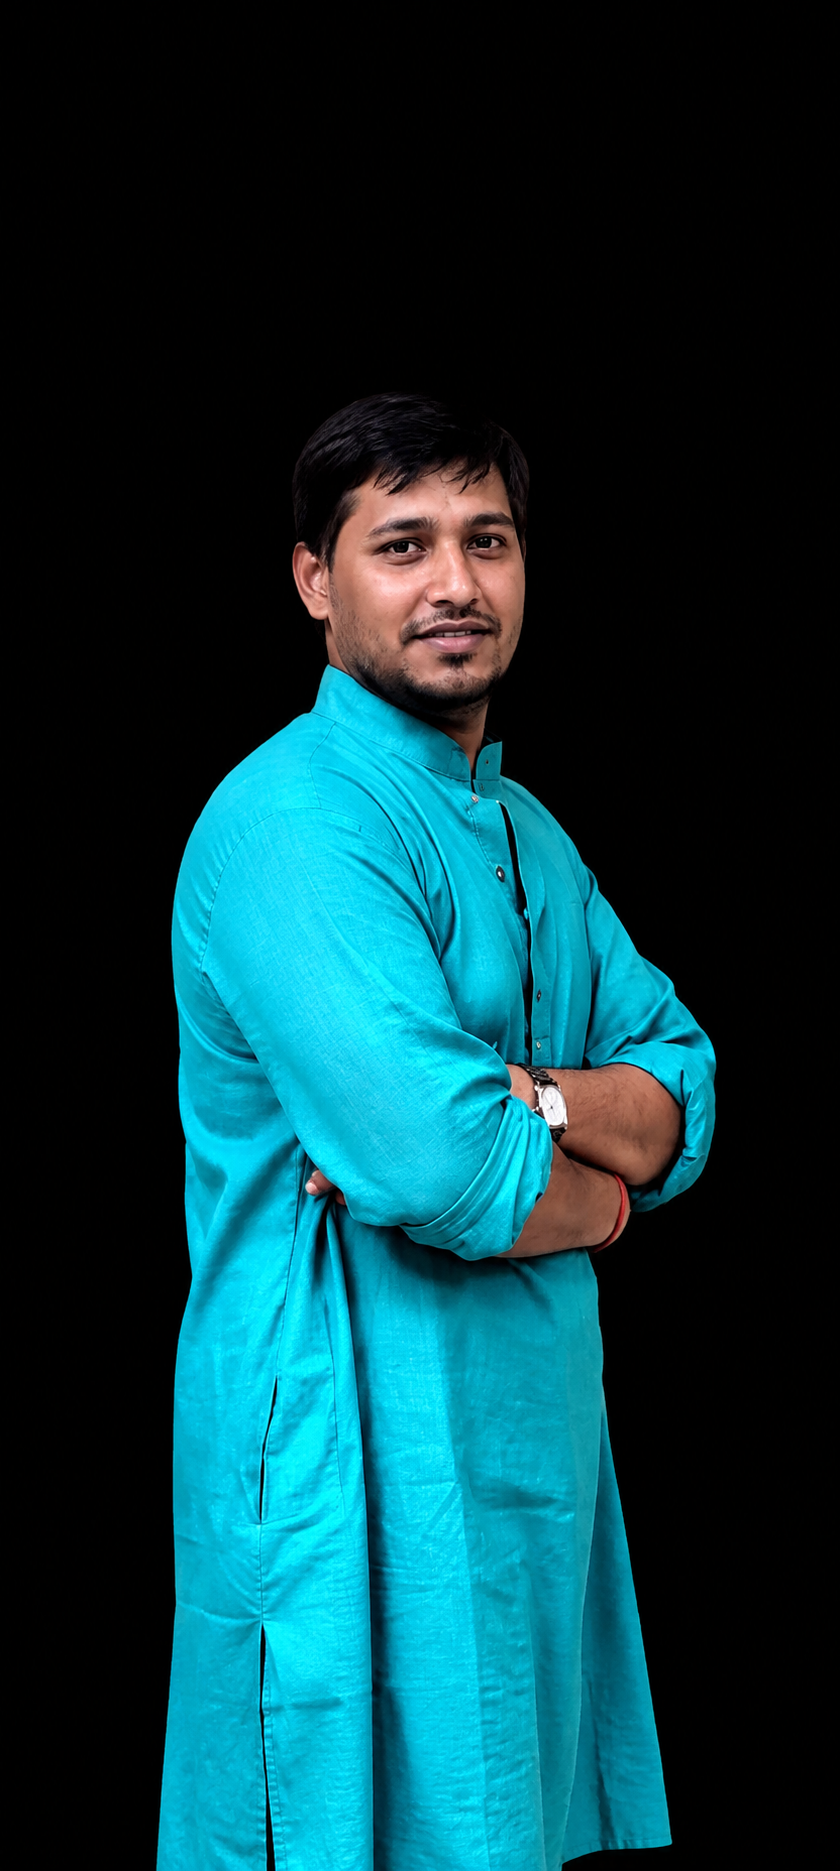
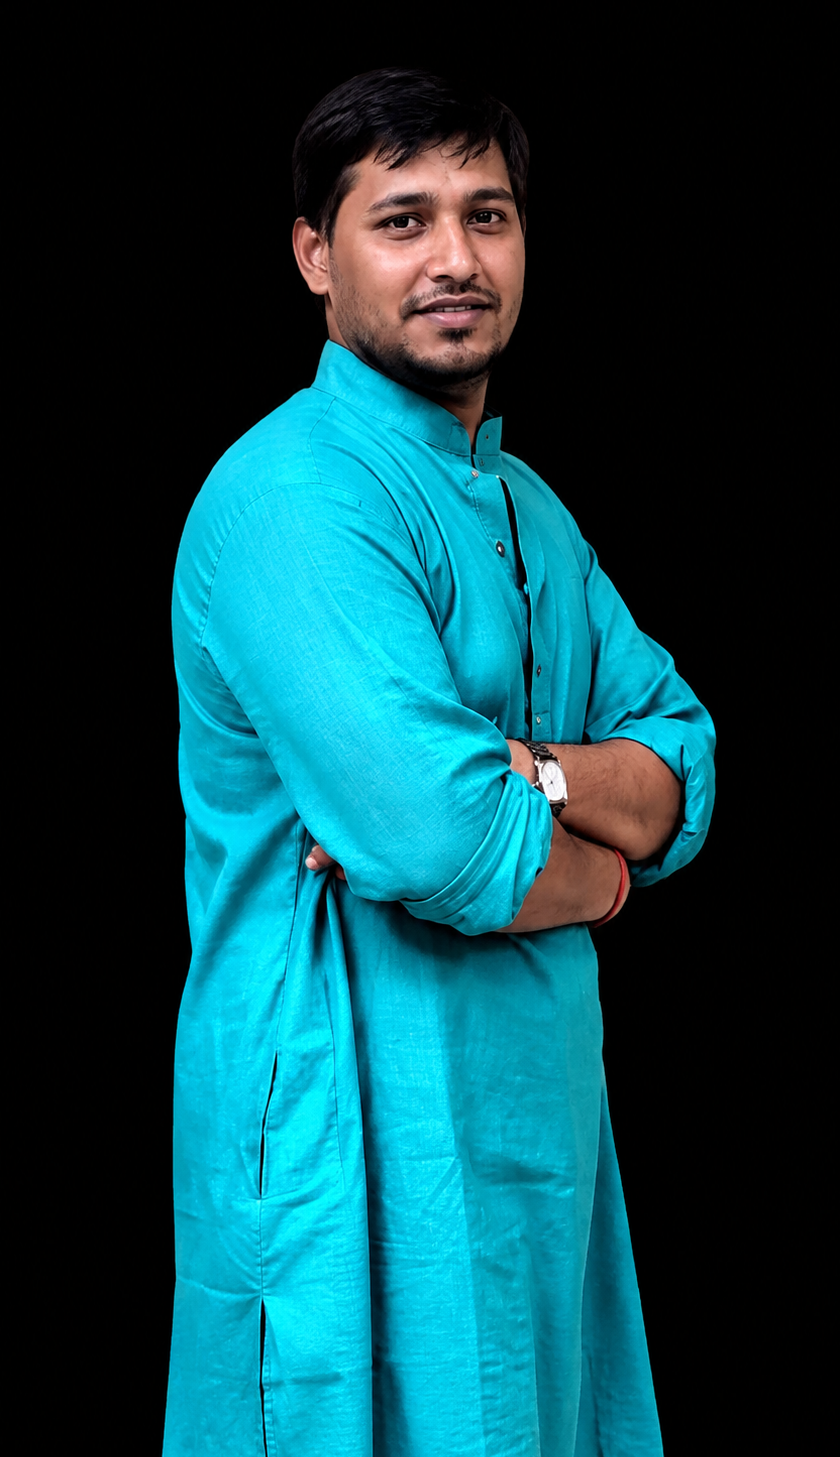
Refine Kolkata portrait placement in placeholder

Changed region(s): [[0.1857, 0.0309, 0.8667, 1.0], [0.1857, 0.8648, 0.2167, 1.0], [0.7119, 0.7412, 0.7429, 0.7721]]

diff --git a/src/App.css b/src/App.css
@@ -12,7 +12,7 @@
 .services-grid-complete { grid-template-columns: repeat(3, 1fr); }.services-grid-complete .service-card { cursor: pointer; }
 .why-choose-section { display: block; border-top: 1px solid var(--border); background: #000; }.why-choose-heading { text-align: center; margin-bottom: 32px; }.why-choose-heading h2 { color: var(--white); font: 400 clamp(38px, 4.2vw, 80px)/0.95 'Playfair Display', serif; margin: 0; text-transform: none; letter-spacing: -2px; }.why-choose-heading h2 em { color: var(--gold); }.why-choose-grid { display: grid; grid-template-columns: repeat(4, minmax(0, 1fr)); border-top: 1px solid rgba(192,163,119,.25); border-left: 1px solid rgba(192,163,119,.25); width: 100%; }.why-choose-grid article { min-height: 190px; padding: 25px 24px; border-right: 1px solid rgba(192,163,119,.25); border-bottom: 1px solid rgba(192,163,119,.25); display: flex; flex-direction: column; justify-content: flex-start; }.why-choose-grid article > span { color: var(--amber); font-size: 10px; letter-spacing: 1px; }.why-choose-grid h3 { color: var(--gold); font: 400 19px 'Playfair Display', serif; margin: 24px 0 11px; }.why-choose-grid p { max-width: 100%; color: var(--beige); font-size: 15px; line-height: 1.7; margin: 0; }
 .local-seo-section { border-top: 1px solid var(--border); background: linear-gradient(110deg, #000, #140a04); }.local-seo-heading { max-width: 730px; }.local-seo-heading h2 { color: var(--white); font: 400 clamp(38px, 4.5vw, 68px)/1.04 'Playfair Display', serif; margin: 0; }.local-seo-heading h2 em { color: var(--gold); }.local-seo-main { display: grid; grid-template-columns: minmax(240px, 360px) minmax(0, 1fr); align-items: center; gap: clamp(38px, 7vw, 100px); margin-top: 58px; }.local-seo-image { width: 100%; aspect-ratio: 4 / 5; display: grid; place-items: center; position: relative; overflow: hidden; border: 1px solid rgba(210,127,20,.65); background: #000; box-shadow: 0 0 45px rgba(210,127,20,.14); }
-.local-seo-image img { width: 100%; height: 100%; object-fit: contain; object-position: center; display: block; background: #000; }.local-seo-image span { position: relative; z-index: 1; color: var(--gold); text-align: center; text-transform: uppercase; letter-spacing: 2px; font-size: 10px; line-height: 1.8; padding: 18px; }.local-seo-image b { color: var(--beige); font-weight: 400; font-size: 8px; }.local-seo-image strong { color: var(--gold); font-weight: 500; font-size: 9px; letter-spacing: 1px; }.local-seo-content { max-width: 640px; margin: 0; color: var(--beige); font-size: 14px; line-height: 1.85; }.local-seo-content p + p { margin-top: 20px; }.local-seo-content strong { color: var(--gold); font-weight: 500; }.local-seo-faq { display: grid; grid-template-columns: 1fr 1fr; gap: 28px; margin-top: 80px; padding-top: 28px; border-top: 1px solid rgba(192,163,119,.25); }.local-seo-faq article { padding-right: 24px; }.local-seo-faq article + article { border-left: 1px solid rgba(192,163,119,.25); padding-left: 28px; }.local-seo-faq h3 { color: var(--gold); font: 400 20px 'Playfair Display', serif; margin: 0 0 14px; }.local-seo-faq p { color: var(--beige); font-size: 12px; line-height: 1.75; margin: 0; }
+.local-seo-image img { width: 100%; height: 100%; object-fit: cover; object-position: center center; display: block; background: #000; }.local-seo-image span { position: relative; z-index: 1; color: var(--gold); text-align: center; text-transform: uppercase; letter-spacing: 2px; font-size: 10px; line-height: 1.8; padding: 18px; }.local-seo-image b { color: var(--beige); font-weight: 400; font-size: 8px; }.local-seo-image strong { color: var(--gold); font-weight: 500; font-size: 9px; letter-spacing: 1px; }.local-seo-content { max-width: 640px; margin: 0; color: var(--beige); font-size: 14px; line-height: 1.85; }.local-seo-content p + p { margin-top: 20px; }.local-seo-content strong { color: var(--gold); font-weight: 500; }.local-seo-faq { display: grid; grid-template-columns: 1fr 1fr; gap: 28px; margin-top: 80px; padding-top: 28px; border-top: 1px solid rgba(192,163,119,.25); }.local-seo-faq article { padding-right: 24px; }.local-seo-faq article + article { border-left: 1px solid rgba(192,163,119,.25); padding-left: 28px; }.local-seo-faq h3 { color: var(--gold); font: 400 20px 'Playfair Display', serif; margin: 0 0 14px; }.local-seo-faq p { color: var(--beige); font-size: 12px; line-height: 1.75; margin: 0; }
 .faq-section { border-top: 1px solid var(--border); background: #000; }.faq-header { text-align: center; margin-bottom: 42px; }.faq-header h2 { color: var(--white); font: 400 clamp(34px, 4vw, 58px)/1.04 'Playfair Display', serif; margin: 0; letter-spacing: -1px; }.faq-grid { display: grid; grid-template-columns: 1fr 1fr; gap: 28px; }.faq-column { display: grid; gap: 20px; }.faq-item { border: 1px solid rgba(192,163,119,.25); background: rgba(20,10,4,.4); overflow: hidden; }.faq-question { width: 100%; padding: 24px 20px; background: transparent; border: 0; color: var(--gold); display: flex; align-items: center; justify-content: space-between; gap: 16px; text-align: left; font: 400 18px/1.3 'Playfair Display', serif; cursor: pointer; }.faq-question span:first-child { flex: 1; }.faq-toggle { font-size: 30px; line-height: 1; color: var(--amber); font-weight: 400; }.faq-answer { padding: 0 20px 22px; border-top: 1px solid rgba(192,163,119,.18); } .faq-answer p { color: var(--beige); font-size: 15px; line-height: 1.8; margin: 0; padding-top: 16px; }
 .site-footer { border-top: 1px solid var(--border); padding: 105px 8.4vw 28px; color: var(--beige); background: radial-gradient(ellipse at 10% 0%, rgba(126,62,41,.2), transparent 35%), #000; }.footer-invitation { display: grid; grid-template-columns: 1fr 1.3fr auto; align-items: end; gap: 30px; padding-bottom: 95px; border-bottom: 1px solid rgba(192,163,119,.22); }.footer-invitation .eyebrow { margin: 0 0 8px; }.footer-invitation h2 { font: 400 clamp(36px, 4vw, 58px)/1.02 'Playfair Display', serif; color: var(--white); margin: 0; }.footer-invitation h2 em { color: var(--gold); }.footer-grid { display: grid; grid-template-columns: 2.2fr 1fr 1.25fr 1.35fr; gap: 7%; padding: 57px 0 66px; }.footer-brand { display: flex; align-items: center; gap: 12px; color: var(--gold); text-transform: uppercase; font-size: 12px; letter-spacing: 1.8px; }.footer-brand .wordmark-mark { width: 34px; height: 34px; font-size: 16px; }.footer-about p { max-width: 230px; margin: 24px 0 0; color: var(--beige); font-size: 12px; line-height: 1.75; }.footer-column { display: flex; flex-direction: column; align-items: flex-start; gap: 13px; }.footer-heading { color: var(--amber); text-transform: uppercase; font-size: 9px; letter-spacing: 2px; margin-bottom: 8px; }.footer-column button, .footer-column a, .footer-column span:not(.footer-heading) { border: 0; padding: 0; background: transparent; color: var(--beige); text-decoration: none; font-size: 11px; text-align: left; transition: color .2s ease; }.footer-column button:hover, .footer-column a:hover { color: var(--gold); }.footer-contact { gap: 16px; }.footer-socials { display: flex; gap: 14px; margin-top: 12px; }.footer-socials a { font-size: 10px; }.footer-bottom { border-top: 1px solid rgba(192,163,119,.22); padding-top: 22px; display: flex; justify-content: space-between; color: rgba(192,163,119,.65); text-transform: uppercase; font-size: 8px; letter-spacing: 1.2px; }
 .page-intro { min-height: calc(100vh - 172px); background: radial-gradient(ellipse at 80% 10%, rgba(126,62,41,.24), transparent 34%), #000; }.page-heading { border-bottom: 1px solid var(--border); padding-bottom: 70px; margin-bottom: 70px; }.about-layout { display: grid; grid-template-columns: 1fr 1fr; gap: 13%; max-width: 900px; margin: auto; align-items: center; }.portrait-large { width: 100%; max-width: 370px; height: 470px; }.about-copy { color: var(--beige); font-size: 16px; line-height: 1.9; }.about-copy p + p { margin-top: 22px; }.signature { color: var(--gold); font: italic 30px 'Playfair Display',serif; margin-top: 35px; }.signature span { color: var(--amber); font-size: 18px; }.full-services-grid { grid-template-columns: repeat(2, 1fr); max-width: 900px; margin: auto; }.service-card-large { min-height: 300px; padding: 35px; }.service-card-large .service-icon { margin-bottom: 50px; }.service-number { position: absolute; top: 35px; right: 35px; color: var(--amber); font-size: 10px; }.stories-list { max-width: 950px; margin: auto; border-top: 1px solid var(--border); }.story-row { display: grid; grid-template-columns: 15% 85%; border-bottom: 1px solid var(--border); padding: 42px 0; }.story-index { color: var(--amber); font-size: 11px; }.story-quote { color: var(--gold); font: italic 28px/1.35 'Playfair Display',serif; max-width: 730px; margin: 0 0 20px; }.story-author { color: var(--white); font-size: 10px; letter-spacing: 1px; text-transform: uppercase; }.story-author span { color: var(--beige); margin-left: 14px; }
